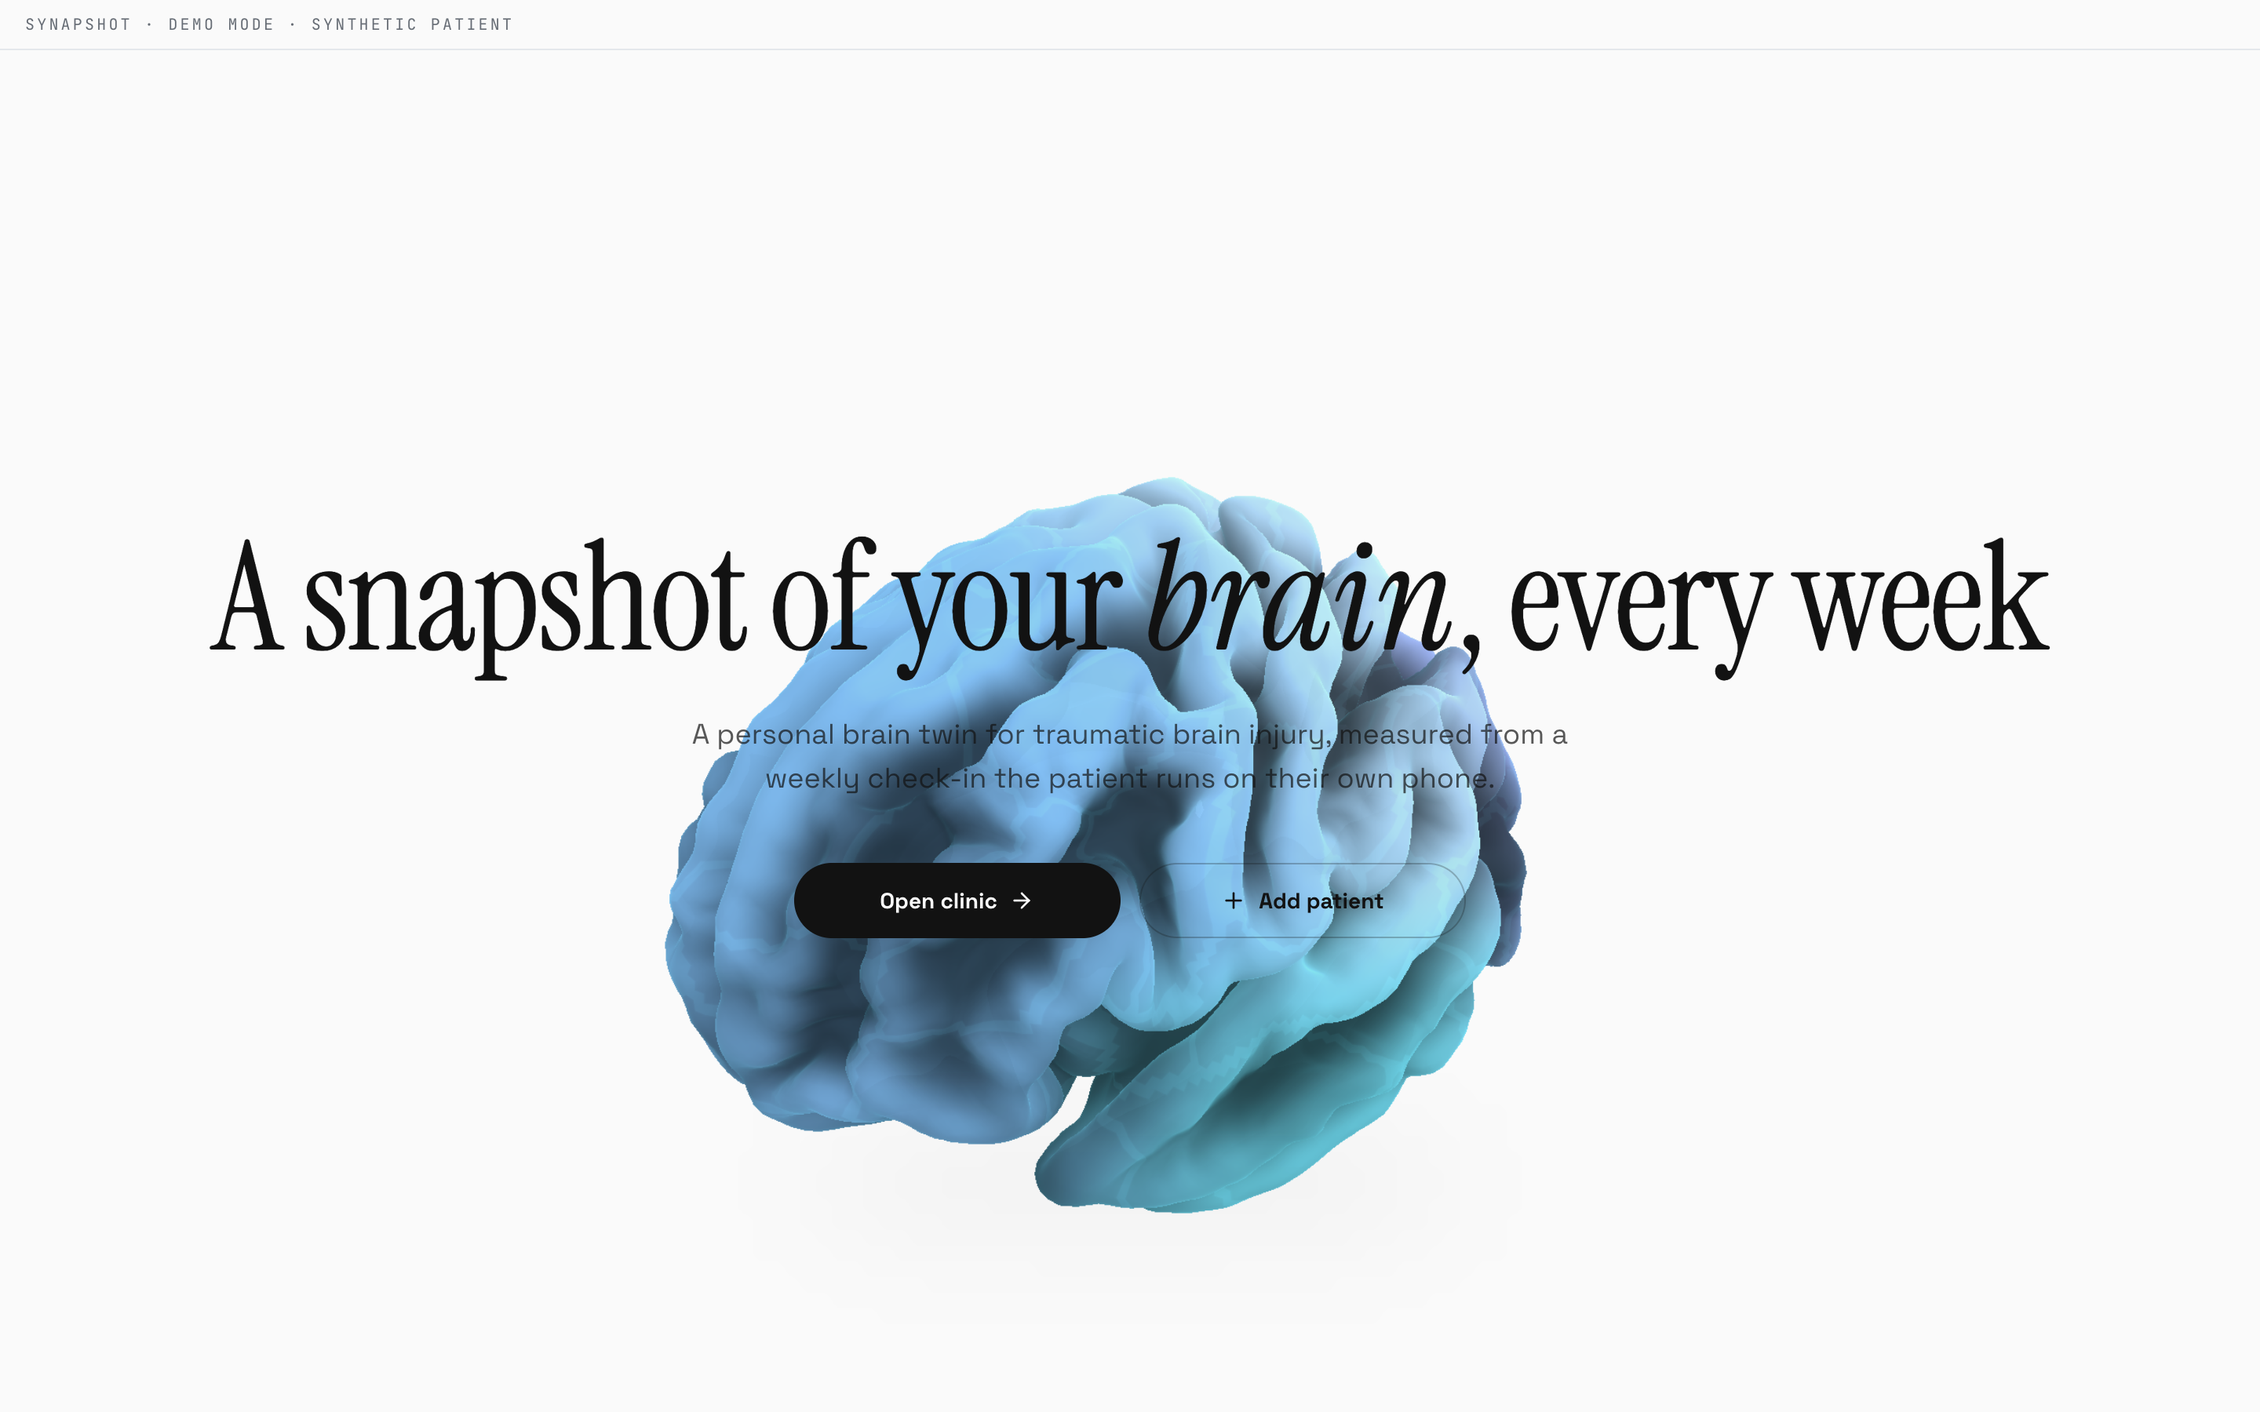
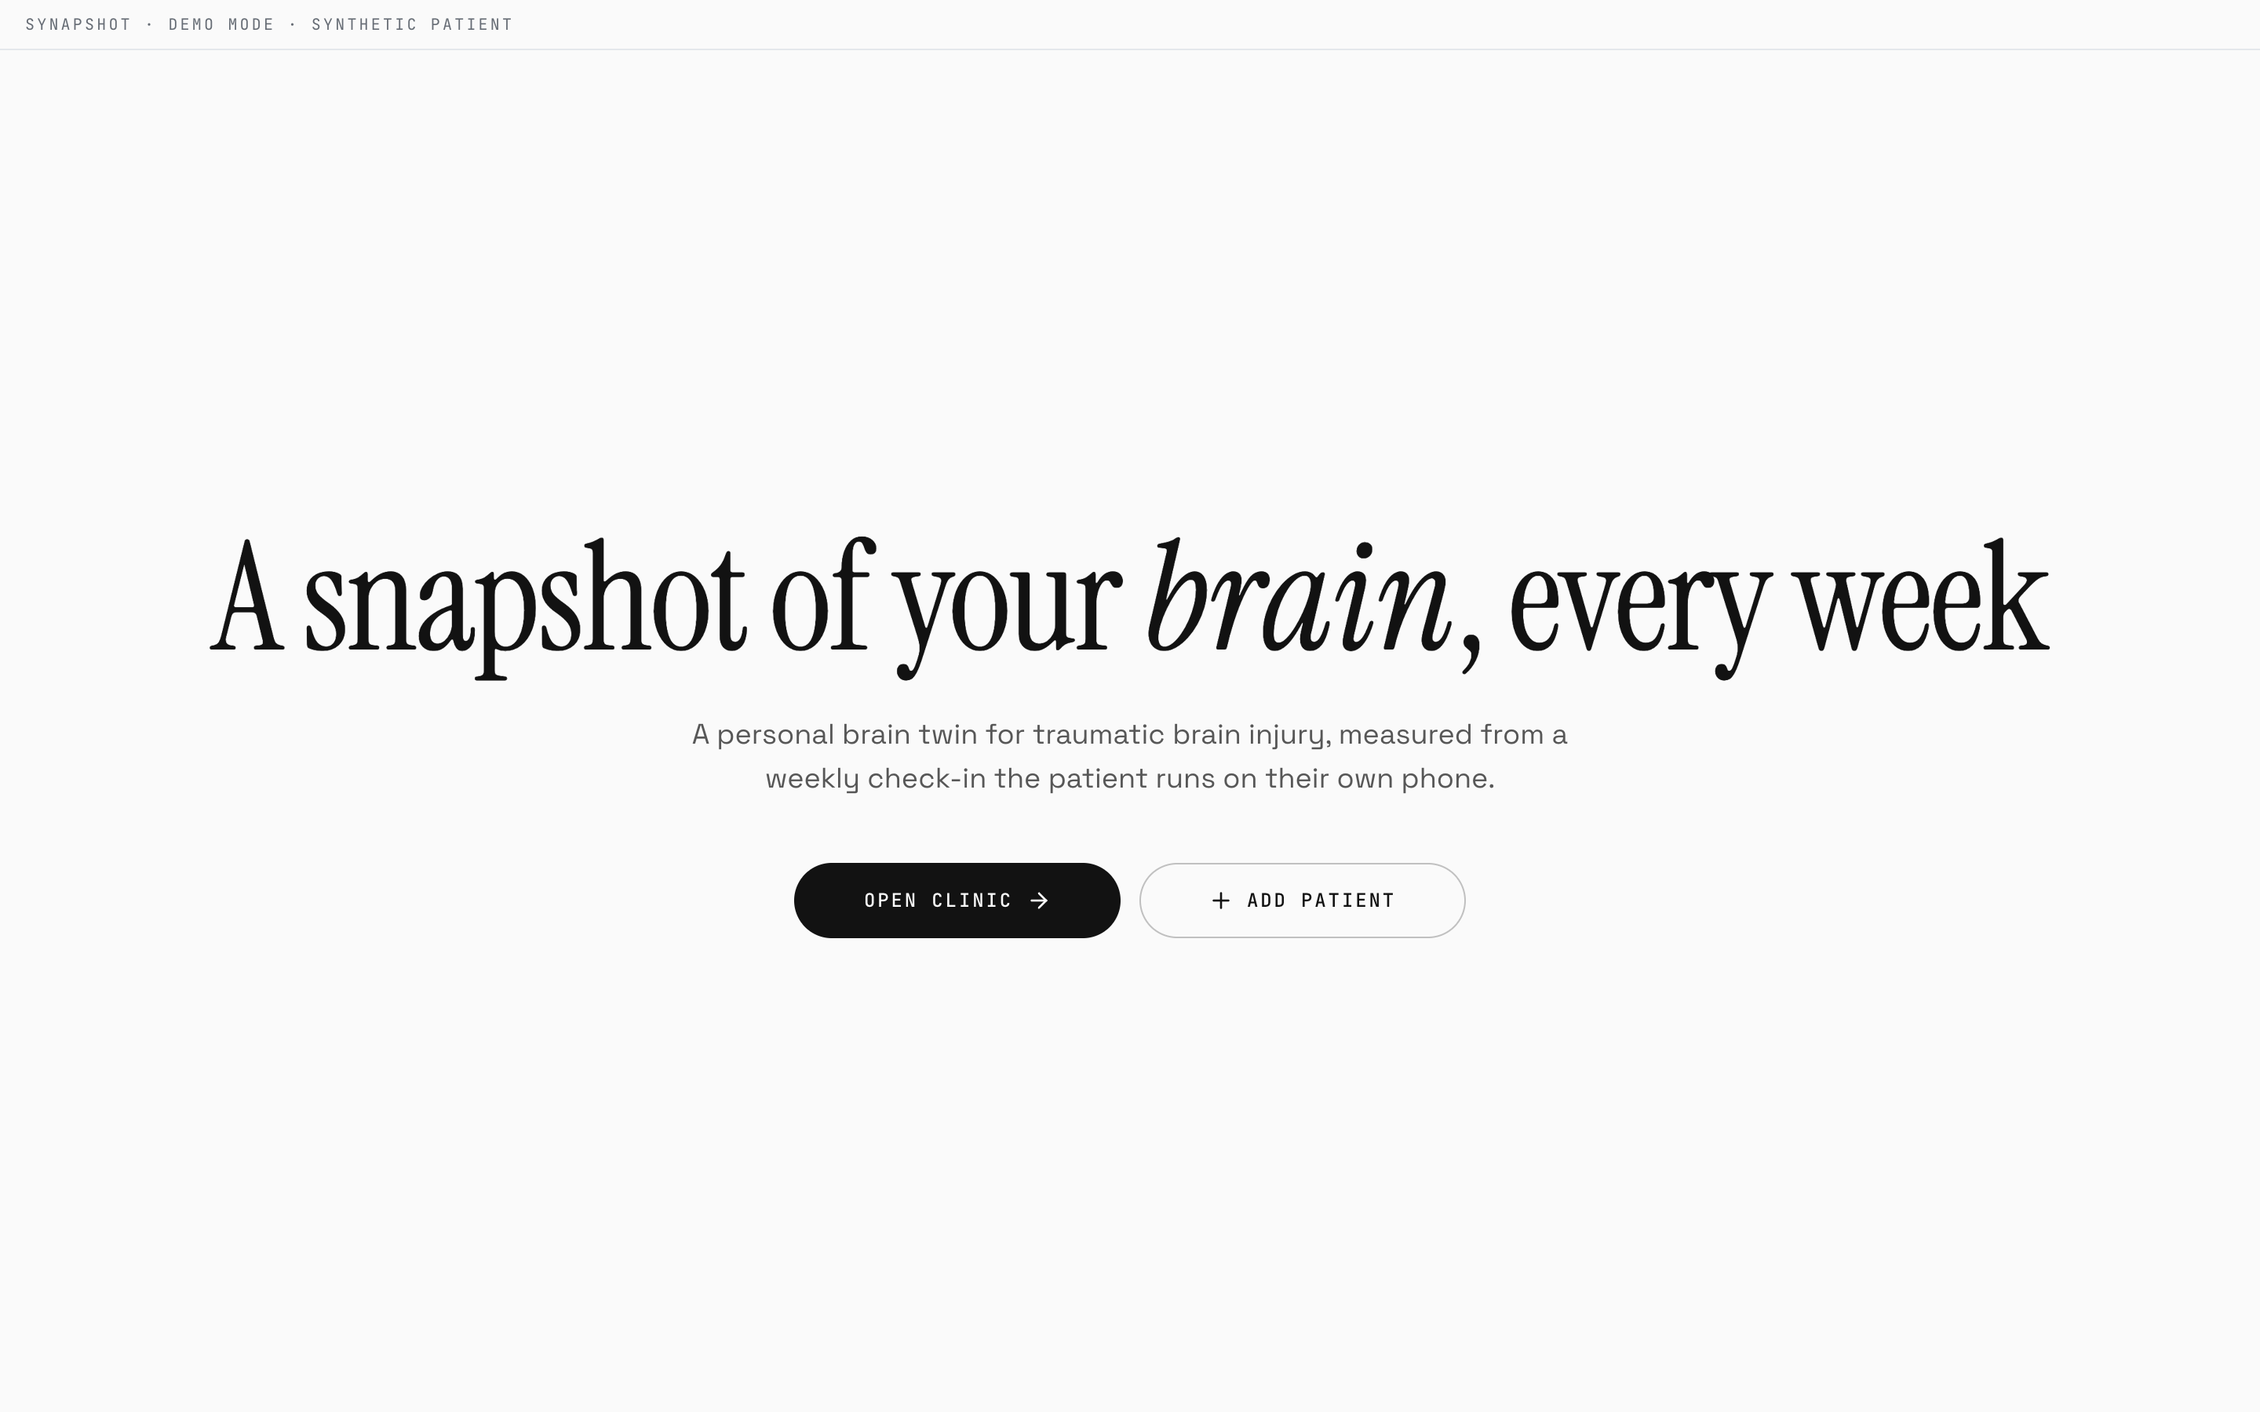
The patient page actually matches now, and the home brain is gone
The clinic list matched and the patient page did not. What was wrong was
structural: both rails were bordered cards, the brain sat in a grey stage box,
the overlay was a dark cyan console, and seventeen chips sat under the brain.

Flat columns with a hairline edge, transparent canvas everywhere so the brain
sits on the page, ink and mono overlay, and the views and lobes are two
dropdowns.

Home drops the brain: the headline is the thing to read there.

Changed region(s): [[0.2812, 0.3422, 0.6875, 0.8711]]

diff --git a/web/src/components/brain/BrainViewer.tsx b/web/src/components/brain/BrainViewer.tsx
@@ -248,11 +248,10 @@ export default function BrainViewer(props: BrainViewerProps) {
   return (
     <div
       className={cn(
-        "workspace-visual relative overflow-hidden",
-        bare ? "bg-transparent" : "bg-[#e4e4e0]",
+        "workspace-visual relative overflow-hidden bg-transparent",
         // `bare` is the landing page, where the canvas is the whole frame. A border and
         // a corner radius there draw a box around what is meant to be the background.
-        !bare && "rounded-xl border border-[#c9c9c4]",
+
         big && "fixed inset-4 z-50",
       )}
       style={big ? undefined : bare || fill ? { height: "100%" } : { height: stageHeight }}
@@ -261,11 +260,12 @@ export default function BrainViewer(props: BrainViewerProps) {
         dpr={[1, 1.75]}
         // The hero is transparent so the brain sits on the page rather than in a box.
         // Everywhere else keeps an opaque buffer, which is cheaper.
-        gl={{ antialias: !compact, alpha: bare, powerPreference: "high-performance" }}
+        // Always transparent now. The brain sits on the off-white page rather than in
+        // a grey stage, on the workspace as well as the hero.
+        gl={{ antialias: !compact, alpha: true, powerPreference: "high-performance" }}
         camera={{ fov: 34, near: 1, far: 4000, position: [-240, 90, -160] }}
         style={{ touchAction: "pan-y", background: "transparent" }}
       >
-        {!bare && <color attach="background" args={["#e4e4e0"]} />}
         <Scene
           cortex={cortex}
           mesh={mesh.data}
@@ -313,13 +313,13 @@ export default function BrainViewer(props: BrainViewerProps) {
       {!bare && (
       <div className="absolute right-3 top-3 flex flex-col items-end gap-1.5">
         {presets && (!compact || syncId) && (
-          <div className="flex gap-1 rounded-full border border-cyan-300/25 bg-black/60 p-1" role="group" aria-label="Preset views">
+          <div className="flex gap-1 rounded-full border border-foreground/15 bg-background/85 p-1 backdrop-blur-sm" role="group" aria-label="Preset views">
             {PRESETS.map((p) => (
               <button
                 key={p.id}
                 type="button"
                 onClick={() => v.setPreset(p.id)}
-                className="rounded-full px-2 py-0.5 text-[10px] font-bold text-cyan-100 hover:bg-cyan-400/20 focus-visible:outline-none focus-visible:ring-2 focus-visible:ring-cyan-300"
+                className="eyebrow rounded-full px-2.5 py-1 text-muted-foreground hover:bg-foreground/5 hover:text-foreground focus-visible:outline-2 focus-visible:outline-ring"
               >
                 {p.label}
               </button>
@@ -328,7 +328,7 @@ export default function BrainViewer(props: BrainViewerProps) {
         )}
         {!compact && (
           <>
-            <div className="flex gap-1 rounded-full border border-cyan-300/25 bg-black/60 p-1" role="group" aria-label="Hemispheres">
+            <div className="flex gap-1 rounded-full border border-foreground/15 bg-background/85 p-1 backdrop-blur-sm" role="group" aria-label="Hemispheres">
               {HEMIS.map((h) => (
                 <button
                   key={h.id}
@@ -336,15 +336,15 @@ export default function BrainViewer(props: BrainViewerProps) {
                   aria-pressed={v.hemi === h.id}
                   onClick={() => v.setHemi(h.id)}
                   className={cn(
-                    "rounded-full px-2 py-0.5 text-[10px] font-bold focus-visible:outline-none focus-visible:ring-2 focus-visible:ring-cyan-300",
-                    v.hemi === h.id ? "bg-cyan-300 text-cyan-950" : "text-cyan-100 hover:bg-cyan-400/20",
+                    "eyebrow rounded-full px-2.5 py-1 focus-visible:outline-2 focus-visible:outline-ring",
+                    v.hemi === h.id ? "bg-foreground text-background" : "text-muted-foreground hover:bg-foreground/5",
                   )}
                 >
                   {h.label}
                 </button>
               ))}
             </div>
-            <div className="flex gap-1 rounded-full border border-cyan-300/25 bg-black/60 p-1">
+            <div className="flex gap-1 rounded-full border border-foreground/15 bg-background/85 p-1 backdrop-blur-sm">
               <StageToggle
                 on={v.hologram}
                 label={v.hologram ? "Hologram on" : "Hologram off"}
@@ -382,11 +382,11 @@ export default function BrainViewer(props: BrainViewerProps) {
       )}
 
       {!bare && (
-      <div className="pointer-events-none absolute bottom-3 left-3 max-w-[60%] text-[11px] text-cyan-50">
+      <div className="pointer-events-none absolute bottom-3 left-3 max-w-[60%] text-[11px] text-foreground">
         {readout !== null && readout !== undefined ? (
-          <div className="rounded-lg border border-cyan-300/30 bg-black/70 px-2.5 py-1.5">
+          <div className="rounded-lg border border-foreground/15 bg-background/90 px-2.5 py-1.5 backdrop-blur-sm">
             <p className="font-bold capitalize">{regionLabel(mesh.data, twin.data, readout).plain}</p>
-            <p className="font-mono text-[10px] text-cyan-200">
+            <p className="font-mono text-[10px] text-muted-foreground">
               <span
                 className="mr-1 inline-block h-2 w-2 rounded-full align-middle"
                 style={{ background: rampColor(def.stops, values.pos[readout]) }}
@@ -396,7 +396,7 @@ export default function BrainViewer(props: BrainViewerProps) {
             </p>
           </div>
         ) : (
-          <p className="rounded-lg bg-black/50 px-2 py-1 text-cyan-200/80">Drag to rotate. Click a region to pin it.</p>
+          <p className="eyebrow text-muted-foreground">Drag to rotate, click a region to pin it</p>
         )}
       </div>
       )}
@@ -419,8 +419,8 @@ function StageToggle({ on, label, icon, onClick }: { on: boolean; label: string;
       title={label}
       aria-label={label}
       className={cn(
-        "flex h-6 w-6 items-center justify-center rounded-full focus-visible:outline-none focus-visible:ring-2 focus-visible:ring-cyan-300",
-        on ? "bg-cyan-300 text-cyan-950" : "text-cyan-100/70 hover:bg-cyan-400/20",
+        "flex h-6 w-6 items-center justify-center rounded-full focus-visible:outline-2 focus-visible:outline-ring",
+        on ? "bg-foreground text-background" : "text-muted-foreground hover:bg-foreground/5",
       )}
     >
       {icon}

diff --git a/web/src/components/workspace/CenterBrain.tsx b/web/src/components/workspace/CenterBrain.tsx
@@ -239,39 +239,47 @@ export function CenterBrain({ patient }: { patient: Patient }) {
         )}
       </div>
 
-      <div className="flex flex-wrap items-center justify-between gap-2 text-[11px] text-muted-foreground">
-        <div className="flex flex-wrap gap-1">
-          {PRESETS.map((p) => (
-            <button
-              key={p.id}
-              type="button"
-              onClick={() => viewer.setPreset(p.id)}
-              className="rounded-full border border-border px-2 py-0.5 font-bold hover:bg-muted"
+      {/* Two dropdowns instead of seventeen chips. Same views, same lobes, one line. */}
+      <div className="flex flex-wrap items-center gap-x-5 gap-y-2">
+        <label className="flex items-center gap-2">
+          <span className="eyebrow text-muted-foreground">View</span>
+          <span className="relative inline-flex items-center">
+            <select
+              value=""
+              onChange={(e) => e.target.value && viewer.setPreset(e.target.value as (typeof PRESETS)[number]["id"])}
+              aria-label="Move the camera to a preset view"
+              className="appearance-none rounded-full border border-foreground/25 bg-card py-1 pl-3 pr-7 text-[11px] font-bold focus-visible:outline-2 focus-visible:outline-ring"
             >
-              {p.label}
-            </button>
-          ))}
-          <span className="mx-1 w-px self-stretch bg-border" aria-hidden />
-          {LOBES.map((name) => (
-            <button
-              key={name}
-              type="button"
-              aria-pressed={lobe === name}
-              onClick={() => setLobe(lobe === name ? null : name)}
-              className={cn(
-                "rounded-full border px-2 py-0.5 font-bold",
-                lobe === name ? "border-primary bg-primary text-primary-foreground" : "border-border hover:bg-muted",
-              )}
+              <option value="">Rotate freely</option>
+              {PRESETS.map((p) => (
+                <option key={p.id} value={p.id}>
+                  {p.label}
+                </option>
+              ))}
+            </select>
+            <ChevronDown className="pointer-events-none absolute right-2.5 h-3 w-3 text-muted-foreground" aria-hidden />
+          </span>
+        </label>
+
+        <label className="flex items-center gap-2">
+          <span className="eyebrow text-muted-foreground">Lobe</span>
+          <span className="relative inline-flex items-center">
+            <select
+              value={lobe ?? ""}
+              onChange={(e) => setLobe(e.target.value || null)}
+              aria-label="Show one lobe only"
+              className="appearance-none rounded-full border border-foreground/25 bg-card py-1 pl-3 pr-7 text-[11px] font-bold focus-visible:outline-2 focus-visible:outline-ring"
             >
-              {name}
-            </button>
-          ))}
-        </div>
-        <p>
-          {week <= patient.week
-            ? `Week ${week} is measured. The band around it is the filter's posterior.`
-            : `Week ${week} is a forecast. Nothing has been measured there.`}
-        </p>
+              <option value="">All lobes</option>
+              {LOBES.map((name) => (
+                <option key={name} value={name}>
+                  {name}
+                </option>
+              ))}
+            </select>
+            <ChevronDown className="pointer-events-none absolute right-2.5 h-3 w-3 text-muted-foreground" aria-hidden />
+          </span>
+        </label>
       </div>
 
       {/* The vessel caption is shown, not hidden in a tooltip. A rendered vessel beside

diff --git a/web/src/pages/Home.tsx b/web/src/pages/Home.tsx
@@ -3,18 +3,8 @@
 // demo and every extra control on it is a thing somebody has to decide not to click.
 
 import { ArrowRight, Plus } from "lucide-react";
-import { Suspense, lazy } from "react";
 import { Link } from "react-router-dom";
 import { Button } from "@/components/ui/button";
-
-// three, drei and postprocessing are the biggest thing in the bundle. Lazy, so the first
-// paint is text and the canvas arrives behind it.
-const BrainViewer = lazy(() => import("@/components/brain/BrainViewer"));
-
-/** What fills the frame while the viewer chunk loads. Same colours, so nothing jumps. */
-function Placeholder() {
-  return <div className="h-full w-full rounded-full bg-muted/40" />;
-}
 
 export default function Home() {
   return (
@@ -24,22 +14,10 @@ export default function Home() {
         SYNAPSHOT &middot; DEMO MODE &middot; SYNTHETIC PATIENT
       </div>
 
-      {/* The brain sits behind the words rather than beside them, so a narrow screen does
-          not have to choose between them. No vessels here: the hero is a portrait, not a
-          diagram, and a rendered vessel next to a rendered brain reads as an angiogram. */}
-      <div className="pointer-events-none absolute inset-0 flex items-center justify-center">
-        <div className="mt-[14vh] h-[min(74vh,660px)] w-[min(74vw,660px)] opacity-100">
-          <Suspense fallback={<Placeholder />}>
-            <BrainViewer patientId="" spin bare compact height={720} />
-          </Suspense>
-        </div>
-      </div>
-
-      {/* A soft ground shadow instead of a dark box. */}
-      <div
-        className="pointer-events-none absolute inset-x-0 bottom-[14%] mx-auto h-10 w-[min(46vw,420px)] rounded-[50%] bg-foreground/[0.07] blur-2xl"
-        aria-hidden
-      />
+      {/* The brain used to sit behind the words here. It is gone: the headline is the
+          thing to read on this screen, and a rendered cortex behind it was competing
+          with it for the one thing a landing page has to do. The brain is the whole
+          point of the workspace, which is one click away. */}
 
       <main className="relative z-10 flex flex-1 flex-col items-center justify-center px-6 text-center">
         <h1 className="display text-6xl sm:text-8xl">

diff --git a/web/src/components/workspace/RightPanel.tsx b/web/src/components/workspace/RightPanel.tsx
@@ -28,7 +28,7 @@ export function RightPanel({ patient }: { patient: Patient }) {
   const { tab, setTab } = useWorkspace();
 
   return (
-    <aside className="order-3 flex flex-col rounded-2xl border border-border/70 bg-card lg:min-h-0 lg:overflow-hidden">
+    <aside className="order-3 flex flex-col lg:min-h-0 lg:overflow-hidden lg:border-l lg:border-border/60 lg:pl-7">
       <Tabs value={tab} onValueChange={(v) => setTab(v as TabId)} className="flex min-h-0 flex-1 flex-col">
         <TabsList className="m-2 grid shrink-0 grid-cols-4">
           {TABS.map((t) => (

diff --git a/web/src/components/workspace/LeftRail.tsx b/web/src/components/workspace/LeftRail.tsx
@@ -137,7 +137,7 @@ export function LeftRail({ patient, stream }: { patient: Patient; stream: Stream
   ].filter(Boolean);
 
   return (
-    <aside className="order-2 rounded-2xl border border-border/70 bg-card lg:order-1 lg:min-h-0 lg:overflow-y-auto">
+    <aside className="order-2 lg:order-1 lg:min-h-0 lg:overflow-y-auto lg:border-r lg:border-border/60 lg:pr-7">
       <Section title="Key facts">
         <Row label="Week" value={`${patient.week} of 12`} />
         {patient.injury.mri_finding && (

diff --git a/DECISIONS.md b/DECISIONS.md
@@ -1566,3 +1566,17 @@ fold titles in all four tabs. Gutters went from 4 to 7 and the page padding from
 which is most of what makes the reference feel calm.
 
 Nothing moved or was removed. Same rows, same numbers, same flags, same links.
+
+## 1d: the patient page, properly this time
+
+The clinic list matched the reference and the patient page did not. What was still wrong
+was structural rather than typographic: both rails were bordered cards, the brain sat in
+a grey stage box with its own border, the overlay controls were a dark cyan hologram
+console, and there were seventeen chips under the brain.
+
+Flat columns with a hairline on the inner edge. The canvas is transparent everywhere now,
+not just on the hero, so the brain sits on the page. The overlay is ink and mono. The
+seven preset views and six lobes are two dropdowns, View and Lobe.
+
+The brain is gone from the home page. The headline is the thing to read there and a
+rendered cortex behind it was competing with it.
